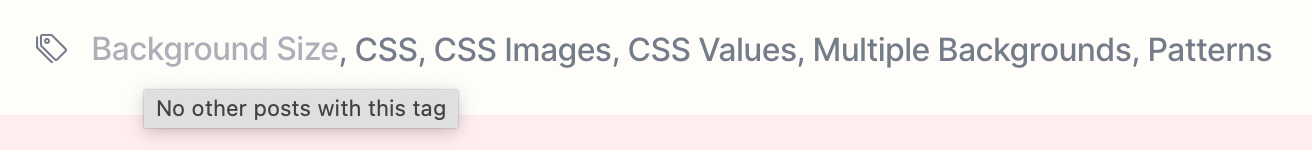
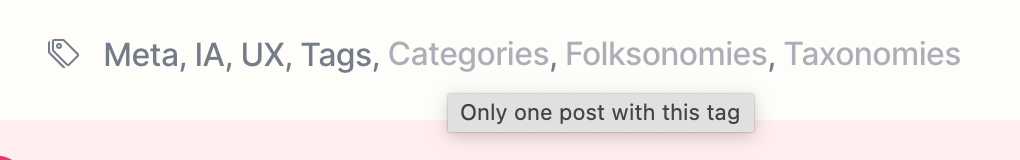
Filename in code samples

diff --git a/blog/2023/rethinking-categorization/index.md b/blog/2023/rethinking-categorization/index.md
@@ -1,11 +1,15 @@
 ---
-title: "Rethinking Categorization: Tags vs Categories, Folksonomies vs Taxonomies"
+title: Rethinking Categorization
 date: "2023-07-19"
 toc: true
 tags:
   - meta
   - ia
   - ux
+  - tags
+  - categories
+  - folksonomies
+  - taxonomies
 ---
 
 This is the third spinoff post in the [migration saga of this blog from WordPress to 11ty](../going-lean/).
@@ -15,51 +19,46 @@ especially around categorization.
 
 ## Categories vs Tags
 
-In WP, I was using both categories and tags, simply because they came for free.
-However the difference between them was a bit fuzzy, as evidenced by how inconsistently they are used around the Web.
+Just like most WP users, I was using both categories and tags, simply because they came for free.
+However the difference between them was a bit fuzzy, as evidenced by how inconsistently they are used, both here and around the Web.
 I was mainly using Categories for the *type* of article (Articles, Rants, Releases, Tips, Tutorials, News, Thoughts),
 however there were also categories that were more like content tags (e.g. CSS WG, Original, Speaking, Benchmarks).
 
-This could be easily solved by moving the latter to actual tags. However, tags were also problematic.
+This was easily solved by moving the latter to actual tags.
+However, tags are no panacea, there are several issues with them as well.
 <!-- more -->
+
 ## Problems with tags
 
 ### Tag aliases
 
 First, there were many tags that were **synonyms of each other**, and posts were fragmented across them, or had to include both (e.g. [JS](/blog/tags/js/) and [Javascript](/blog/tags/javascript)).
-I addressed this by defining [aliases](https://github.com/LeaVerou/lea.verou.me/blob/main/data/tag_aliases.json), and using Eleventy to [dynamically build the `_redirects` file](https://github.com/LeaVerou/lea.verou.me/blob/main/redirects.njk) that Netlify reads.
-I’m quite excited about this idea, as it opens up a lot of possiblities for dynamic redirects.
+I addressed this by defining [aliases]({{ site.repo_file }}/data/tag_aliases.json) in a global data file, and using Eleventy to [dynamically build Netlify redirects]({{ site.repo_file }}/redirects.njk) for them.
+{% raw %}
+```njk { data-file="redirects.njk" }
+# Tag aliases
+{% for alias, tag in tag_aliases %}/tags/{{ alias }}/ /tags/{{ tag }}/ 301
+{% endfor %}
+```
+{% endraw %}
+Turns out I’m not the first to think of building the Netlify `_redirects` file dynamically, some googling revealed [this blog post](https://www.aleksandrhovhannisyan.com/blog/eleventy-netlify-redirects/) from 2021 that does the same thing.
 
-### Tag hierarchies?
+I’ve also decided to expose these aliases in the [tags index](/blog/tags/):
 
-The theory is that [categories are a taxonomy and tags a folksonomy](https://en.wikipedia.org/wiki/Folksonomy#Folksonomy_vs._taxonomy).
-Taxonomies can be hierarchical, but folksonomies are flat.
-However, **in practice, tags almost always have an implicit hierarchy**, which is also what [research on folksonomies in the wild tends to find](https://en.wikipedia.org/wiki/Folksonomy#Folksonomy_vs._taxonomy).
+![](images/aliases-tag-index.png)
 
-Examples from this very blog:
-- There is a separate tag for [ES](/blog/tags/es/) (ECMAScript), and a separate one for [JS](/blog/tags/js).
-However, any post tagged ES should also be tagged JS -- though the opposite is not true.
-- There is a tag for [CSS](/blog/tags/css/), tags for specific CSS specifications (e.g. [CSS Backgrounds & Borders](/blog/tags/css-backgrounds/)), and even tags for specific CSS functions or properties (e.g. [`background-attachment`](/blog/tags/background-attachment/), [`background-size`](/blog/tags/background-size/)).
-However, these are not orthogonal: posts tagged with specific CSS features should also be tagged with the CSS spec that contains them, as well as a general "CSS" tag.
-
-**I have yet to see a use case for tagging that does *not* result in implicit hierarchies.**
-Yet, all UIs for entering tags assume that they are flat.
-Instead, it’s up to each individual post to maintain these relationships, which is tedious and error prone.
-In practice, the more general tags are often left out, but not intentionally or predictably.
-
-It would be much better to be able to define this hierarchy in a central place, and have it automatically applied to all posts.
-In 11ty, it could be as simple as a data file for each tag’s "parent" tag.
-Every time the tag is used, its parent is also added to the post automatically, recursively all the way up to the root (at build time).
-I have not tried this yet, but I’m excited to experiment with it once I have a bit more time.
-
-### Orphan tags
+### "Orphan" tags
 
 Lastly, another issue is what I call "orphan tags": Tags that are only used in a single post.
 The primary use case for both tags and categories is to help you discover related content.
 Tags that are only used once clutter the list of tags, but serve no actual purpose.
-Orphan tags fall into two categories:
-1. Tags that were too specific to begin with, and are unlikely to ever be used again.
-2. Tags that will be used a lot in the future, but have not been used yet.
+
+It is important to note that orphan tags are not (always) an authoring mistake.
+While some tags are definitely too specific and thus unlikely to be used again,
+the vast majority of orphan tags are tags that *could* plausibly be used again, but it simply hasn’t happened.
+
+I definitely removed a bunch of overly specific tags from the content,
+but was still left with more orphan tags than tags with more than one post (103 vs 78 as I write these lines).
 
 For (1), the best course of action is probably to remove the tags from the content altogether.
 However for (2), there are two things to consider.
@@ -80,8 +79,48 @@ For now, I’ve refrained from making them links, and I’m displaying them fade
 
 ![](images/orphan-tags-post.png)
 
-I’m also contemplating hiding them entirely *(since they are essentially tags that have failed at their one purpose in life)*,
-or having a "and 4 orphan tags" message at the end of the list of tags, which can be clicked to show them.
+Another alternative I'm contemplating is to hide them entirely.
+Not as a punitive measure because they have failed at their one purpose in life 😅, but because this would allow me to use tags liberally,
+and only what sticks would be displayed to the end user.
 
-Note that these combined also prevent me from having to generate tag pages for these tags,
-cutting down on build time by about a second, and substantially reduced the number of pages that need to be generated.
+A third, intermediate solution, would be to have a "and 4 orphan tags" message at the end of the list of tags, which can be clicked to show them.
+
+These are not just UX/IA improvements, they are also performance improvements.
+**Not linking orphan tags to tag pages means I don’t need to generate these tag pages at all.**
+Since the majority of tags are orphan tags, this allowed me to substantially reduce the number of pages that need to be generated,
+and cut down build time by a whopping **40%**, from 2.7s to 1.7s (on average).
+
+### Tag hierarchies?
+
+The theory is that categories are a [taxonomy](https://en.wikipedia.org/wiki/Taxonomy) and tags a [folksonomy](https://en.wikipedia.org/wiki/Folksonomy).
+Taxonomies can be hierarchical, but folksonomies are, [by definition](https://en.wikipedia.org/wiki/Folksonomy#Folksonomy_vs._taxonomy), flat.
+However, **in practice, tags almost always have an implicit hierarchy**, which is also what [research on folksonomies in the wild tends to find](https://en.wikipedia.org/wiki/Folksonomy#Folksonomy_vs._taxonomy).
+
+Examples from this very blog:
+- There is a separate tag for [ES](/blog/tags/es/) (ECMAScript), and a separate one for [JS](/blog/tags/js).
+However, any post tagged ES should also be tagged JS -- though the opposite is not true.
+- There is a tag for [CSS](/blog/tags/css/), tags for specific CSS specifications (e.g. [CSS Backgrounds & Borders](/blog/tags/css-backgrounds/)), and even tags for specific CSS functions or properties (e.g. [`background-attachment`](/blog/tags/background-attachment/), [`background-size`](/blog/tags/background-size/)).
+However, these are not orthogonal: posts tagged with specific CSS features should also be tagged with the CSS spec that contains them, as well as a general "CSS" tag.
+
+**I have yet to see a use case for tagging that does *not* result in implicit hierarchies.**
+Yet, all UIs for entering tags assume that they are flat.
+Instead, it’s up to each individual post to maintain these relationships, which is tedious and error prone.
+In practice, the more general tags are often left out, but not intentionally or predictably.
+
+It would be much better to be able to define this hierarchy in a central place, and have it automatically applied to all posts.
+In 11ty, it could be as simple as a data file for each tag’s "parent" tag.
+Every time the tag is used, its parent is also added to the post automatically, recursively all the way up to the root (at build time).
+I have not tried this yet, but I’m excited to experiment with it once I have a bit more time.
+
+## Categories vs Tags: Reprise
+
+Back to our original dilemma: Do I still need categories, especially if I eventually implement tag hierarchies?
+It does seem that the categories I used in WP for the article type (Articles, Rants, Releases, Tips, Tutorials, News, Thoughts etc)
+are somewhat distinct from my usage of tags, which are more about the content of the article.
+However, it is unclear whether this is the best use of categories, or whether I should just use tags for this as well.
+Another common practice is to use tags for more specific content tags, and categories for broader areas (e.g. "Software engineering", "Product", "HCI", "Personal" etc).
+Skipping past the point that tag hierarchies make it easy to use tags for this too, this makes me think: maybe what is needed is actually metadata, not categories.
+Instead of deciding that categories hold the article type, or the broader domain, what if we had certain attributes for *both* of these things.
+Then, we could have a "type" attribute, and a "domain" attribute, and use them both for categorization, and for filtering.
+Since Eleventy already supports arbitrary metadata, this is just a matter of implementation.
+

diff --git a/blog/2023/going-lean/index.md b/blog/2023/going-lean/index.md
@@ -18,11 +18,12 @@ However, for me, the bad had started to outweigh the good:
 - Things I could do in minutes in a static site, in WP required finding a plugin or tweaking PHP code.
 - It was slow and bloated.
 - Getting a draft out of it and into another medium was a pain.
-- Despite having never been hacked, I was terrified about security, especially once it started demanding a higher PHP version than what I had.
+- Despite having never been hacked, I was terrified about it, given all the horror stories.
 - I was periodically getting "Error establishing a database connection" errors, whose frequency kept increasing.
 
 It was time to move on.
 *It’s not you WP, it’s me.*
+<!-- more -->
 
 It seemed obvious that the next step would be a statically generated blog.
 I had been using [Eleventy](https://11ty.dev) for a while on a variety of sites at that point and loved it, so using that was a no-brainer.
@@ -47,8 +48,6 @@ Nearly all fell in one of two categories:
 3. Giving me benefits I could get with existing Eleventy plugins (e.g. Add Anchor Links, Easy Table of Contents)
 
 This could actually work!
-
-<!-- more -->
 
 ## Public or private repo?
 

diff --git a/blog/2023/04/private-fields-considered-harmful/index.md b/blog/2023/04/private-fields-considered-harmful/index.md
@@ -1,7 +1,7 @@
 ---
 title: "JS private class fields considered harmful"
 date: "2023-04-28"
-categories:
+tags:
   - "articles"
   - "thoughts"
 tags:

diff --git a/blog/2010/11/tag-editing-uis/index.md b/blog/2010/11/tag-editing-uis/index.md
@@ -6,6 +6,7 @@ categories:
 tags:
   - "ui-design"
   - "usability"
+  - "tags"
   - "ux"
 ---
 
